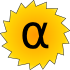
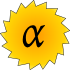
Slightly changed special version marker appearance and updated version to 0.1.0

Changed region(s): [[0.3143, 0.3143, 0.7143, 0.7143]]

diff --git a/lib/lilith.rb b/lib/lilith.rb
@@ -18,6 +18,11 @@ along with Lilith.  If not, see <http://www.gnu.org/licenses/>.
 =end
 
 module Lilith
+  # The versioning tries to follow semantic versioning
+  #
+  # See http://semver.org/
+  VERSION = '0.1.0'
+
   module_function
 
   # Scrapes the main data source: Eva² of Hochschule Bonn-Rhein-Sieg
